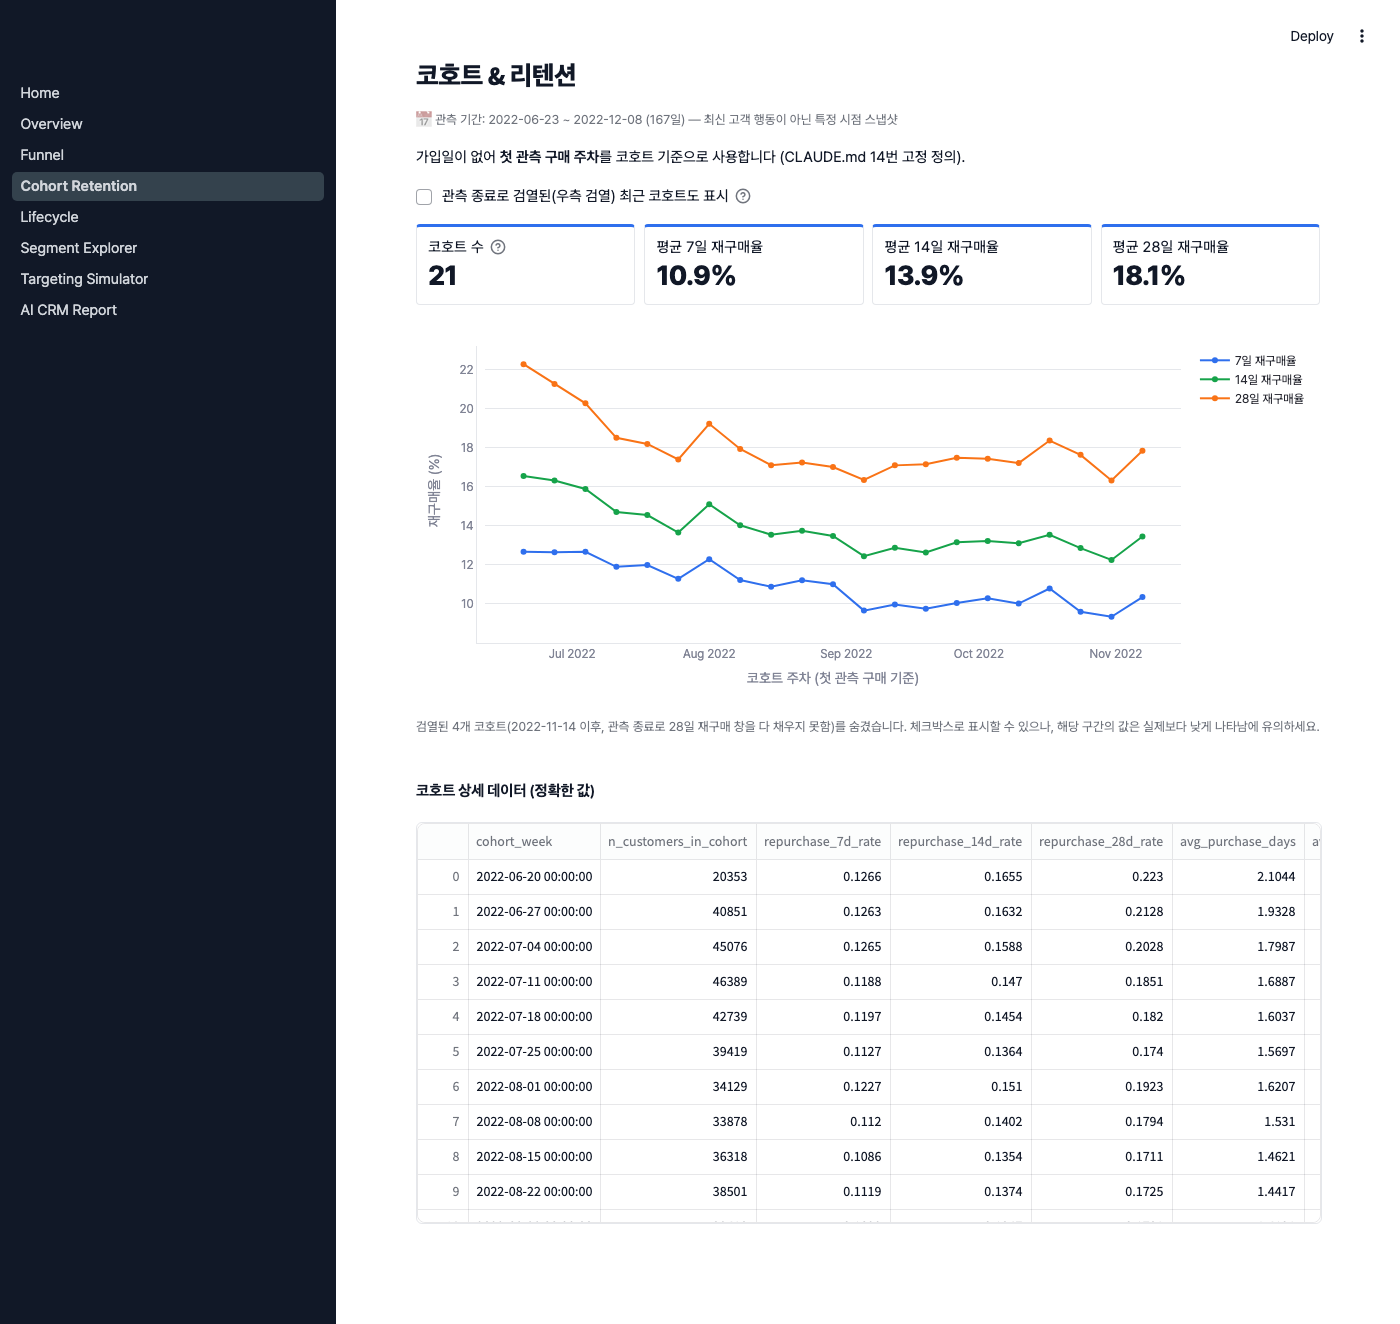
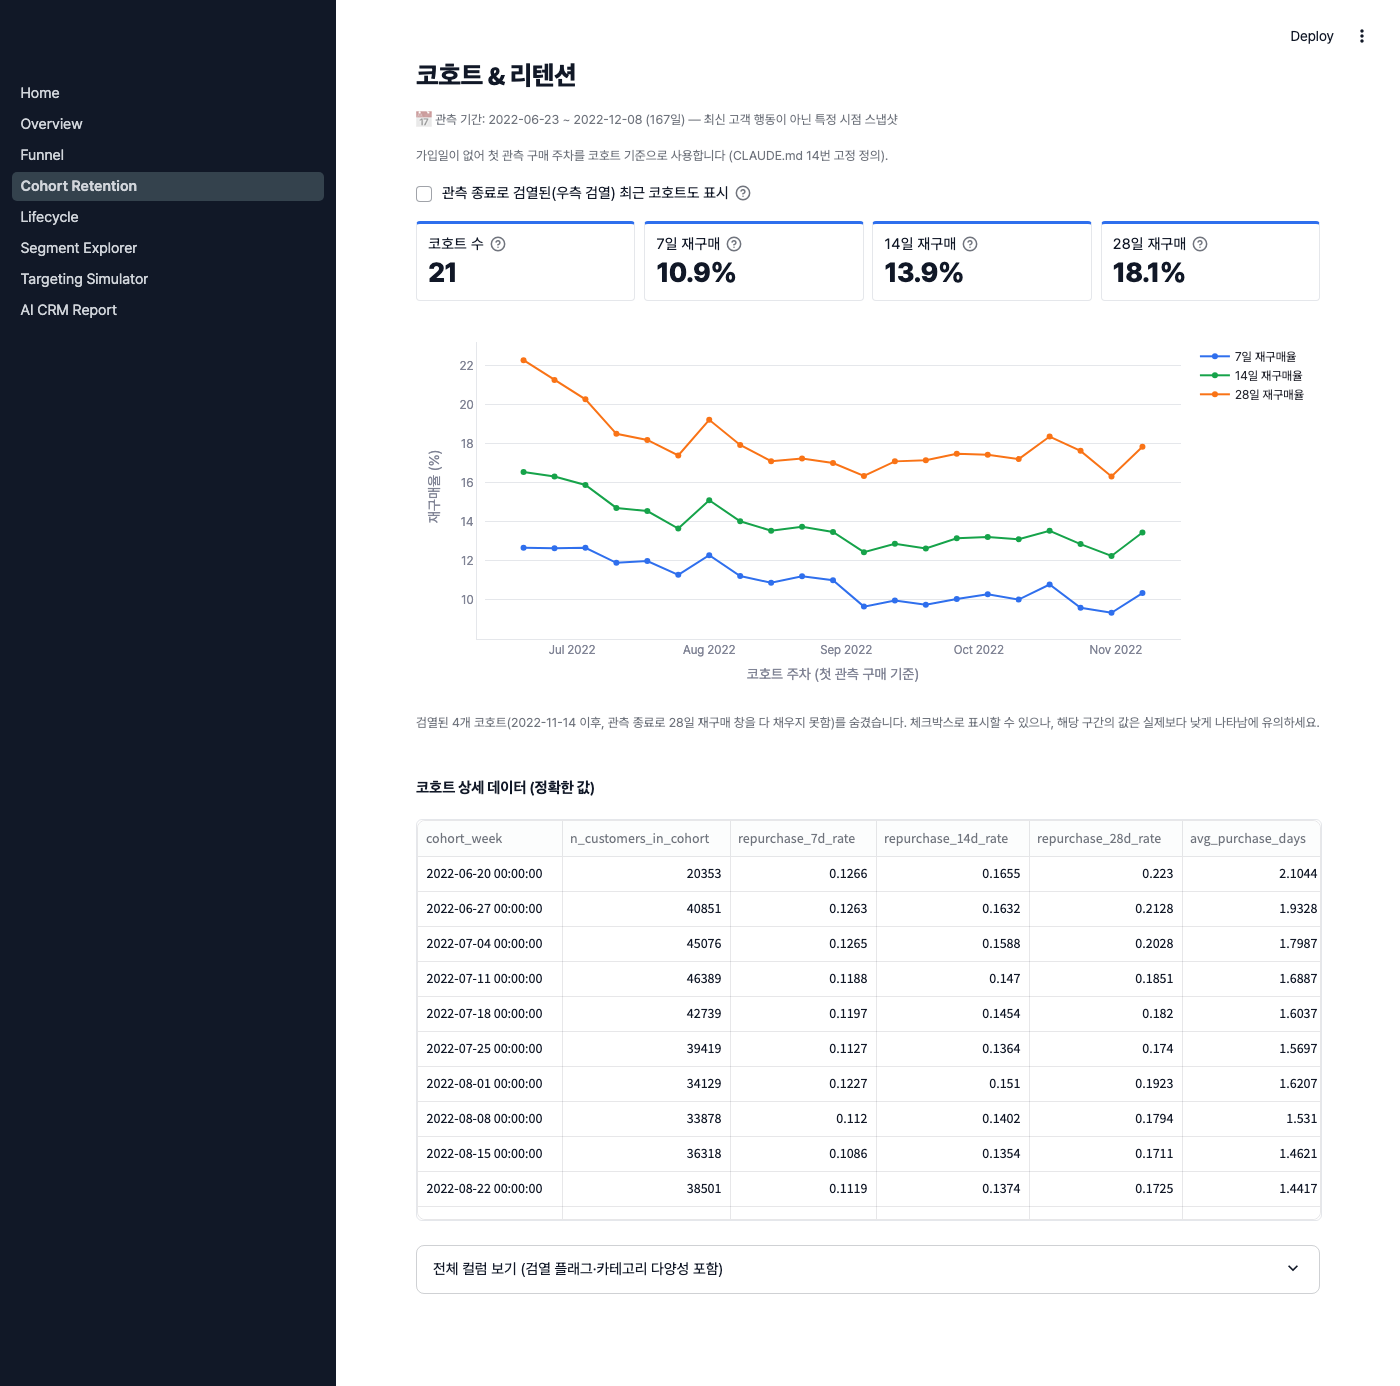
fix(dashboard): resolve text truncation across all pages at 1024px, condense methodology captions

diff --git a/app/pages/2_Funnel.py b/app/pages/2_Funnel.py
@@ -14,39 +14,49 @@ inject_global_css()
 st.title("고객 단위 퍼널")
 show_data_period_notice()
 
-st.markdown(
-    "`page_visit.url`이 상품(sku)과 연결되는 키가 없어 **상품 단위 퍼널은 구조적으로 "
-    "불가능**합니다 (Phase 1 8.9, `docs/methodology.md`). 아래는 고객 단위 탐색→장바구니→구매 퍼널입니다."
+st.caption(
+    "💡 상품 단위 퍼널은 `page_visit.url`-상품(sku) 연결 불가로 구조적으로 불가능해 "
+    "고객 단위 탐색→장바구니→구매 퍼널만 제공합니다 (근거: `docs/methodology.md`)."
 )
 
 funnel = load_funnel_summary()
 
-col_chart, col_table = st.columns([2, 1])
-with col_chart:
-    fig = go.Figure(
-        go.Funnel(
-            y=["탐색", "장바구니 추가", "구매"],
-            x=[funnel["explore"], funnel["cart"], funnel["buy"]],
-            textinfo="value+percent initial+percent previous",
-            marker=dict(color=[BRAND, BRAND, BRAND], opacity=[1, 0.72, 0.5]),
-            connector=dict(fillcolor="#EAF0FE", line=dict(color="#C7D7FB", width=1)),
-        )
-    )
-    themed_layout(fig, height=380)
-    st.plotly_chart(fig, use_container_width=True)
+stage_vals = [funnel["explore"], funnel["cart"], funnel["buy"]]
+pct_initial = [v / stage_vals[0] * 100 for v in stage_vals]
+pct_previous = [100.0, stage_vals[1] / stage_vals[0] * 100, stage_vals[2] / stage_vals[1] * 100]
+funnel_text = [
+    f"{v:,.0f}<br>초기 대비 {pi:.1f}%<br>직전 대비 {pp:.1f}%"
+    for v, pi, pp in zip(stage_vals, pct_initial, pct_previous)
+]
 
-with col_table:
-    st.subheader("정확한 값")
-    stage_df = pd.DataFrame(
-        {"단계": ["탐색", "장바구니 추가", "구매"],
-         "고객 수": [funnel["explore"], funnel["cart"], funnel["buy"]]}
+fig = go.Figure(
+    go.Funnel(
+        y=["탐색", "장바구니 추가", "구매"],
+        x=stage_vals,
+        text=funnel_text,
+        textinfo="text",
+        marker=dict(color=[BRAND, BRAND, BRAND], opacity=[1, 0.72, 0.5]),
+        connector=dict(fillcolor="#EAF0FE", line=dict(color="#C7D7FB", width=1)),
     )
-    stage_df["초기%"] = stage_df["고객 수"] / stage_df["고객 수"].iloc[0] * 100
-    stage_df["직전%"] = [100.0, funnel["cart"] / funnel["explore"] * 100, funnel["buy"] / funnel["cart"] * 100]
-    stage_df.index = [""] * len(stage_df)
-    st.table(
-        stage_df.style.format({"고객 수": "{:,.0f}", "초기%": "{:.1f}%", "직전%": "{:.1f}%"})
-    )
+)
+themed_layout(fig, height=380)
+st.plotly_chart(fig, use_container_width=True)
+
+st.subheader("정확한 값")
+stage_df = pd.DataFrame(
+    {"단계": ["탐색", "장바구니 추가", "구매"], "고객 수": stage_vals,
+     "초기%": pct_initial, "직전%": pct_previous}
+)
+st.dataframe(
+    stage_df.style.format({"고객 수": "{:,.0f}", "초기%": "{:.1f}%", "직전%": "{:.1f}%"}),
+    use_container_width=True, hide_index=True,
+    column_config={
+        "단계": st.column_config.TextColumn(width="small"),
+        "고객 수": st.column_config.TextColumn(width="medium"),
+        "초기%": st.column_config.TextColumn(width="small"),
+        "직전%": st.column_config.TextColumn(width="small"),
+    },
+)
 
 st.subheader("구매자 경로 분해")
 st.markdown(
@@ -59,14 +69,16 @@ explore_cart_buy = funnel["cart_to_buy"]
 no_footprint = funnel["buy_with_no_footprint"]
 
 c1, c2, c3, c4 = st.columns(4)
-metric(c1, "path", "탐색→장바구니→구매", format_count(explore_cart_buy),
+metric(c1, "path", "탐색→구매", format_count(explore_cart_buy),
        sub=f"구매의 {explore_cart_buy/total_buy*100:.1f}%", tone="positive",
-       help=f"정확한 값: {explore_cart_buy:,.0f}")
-metric(c2, "nofootprint", "기록 없이 구매", format_count(no_footprint),
+       help=f"탐색→장바구니→구매 전체 경로 — 정확한 값: {explore_cart_buy:,.0f}")
+metric(c2, "nofootprint", "기록 없음", format_count(no_footprint),
        sub=f"구매의 {no_footprint/total_buy*100:.1f}%", tone="warning",
-       help=f"정확한 값: {no_footprint:,.0f}")
-metric(c3, "e2c", "탐색→장바구니 전환율", f"{funnel['explore_to_cart']/funnel['explore']*100:.2f}%")
-metric(c4, "c2b", "장바구니→구매 전환율", f"{funnel['cart_to_buy']/funnel['cart']*100:.2f}%")
+       help=f"기록 없이 구매 — 정확한 값: {no_footprint:,.0f}")
+metric(c3, "e2c", "탐색전환율", f"{funnel['explore_to_cart']/funnel['explore']*100:.2f}%",
+       help="탐색→장바구니 전환율")
+metric(c4, "c2b", "구매전환율", f"{funnel['cart_to_buy']/funnel['cart']*100:.2f}%",
+       help="장바구니→구매 전환율")
 
 st.caption(
     "'기록 없이 구매' 고객은 탐색·검색·장바구니 이벤트가 전혀 없이 구매만 기록된 경우로, "

diff --git a/app/pages/4_Lifecycle.py b/app/pages/4_Lifecycle.py
@@ -13,12 +13,9 @@ inject_global_css()
 st.title("고객 라이프사이클")
 show_data_period_notice()
 
-st.markdown(
-    """
-관측 종료 시점(2022-12-08) 기준 라이프사이클 상태 분포입니다. 임계값(14/28/60일)은
-구매 간격 중앙값·p90의 배수로 데이터 기반 산출했습니다 — 근거는
-`docs/methodology.md` "라이프사이클 상태 임계값 확정" 항목 참고.
-"""
+st.caption(
+    "관측 종료 시점(2022-12-08) 기준 상태 분포입니다. 임계값(14/28/60일)은 구매 간격 "
+    "중앙값·p90 기반 산출 — 근거: `docs/methodology.md` \"라이프사이클 상태 임계값 확정\"."
 )
 
 df = load_lifecycle_distribution()
@@ -39,34 +36,36 @@ c1, c2, c3, c4 = st.columns(4)
 metric(c1, "explore", "탐색 단계", format_count(group.get("neutral", 0)),
        sub=f"전체의 {group.get('neutral', 0)/df['n'].sum()*100:.1f}%",
        help="탐색_고객 + 장바구니_고객")
-metric(c2, "active", "구매 활성/성장", format_count(group.get("positive", 0)),
+metric(c2, "active", "활성/성장", format_count(group.get("positive", 0)),
        sub=f"전체의 {group.get('positive', 0)/df['n'].sum()*100:.1f}%", tone="positive",
-       help="첫_관측_구매_고객 + 활성_구매_고객 + 복귀_고객")
-metric(c3, "declining", "구매 감소/위험", format_count(group.get("warning", 0)),
+       help="구매 활성/성장 — 첫_관측_구매_고객 + 활성_구매_고객 + 복귀_고객")
+metric(c3, "declining", "감소/위험", format_count(group.get("warning", 0)),
        sub=f"전체의 {group.get('warning', 0)/df['n'].sum()*100:.1f}%", tone="warning",
-       help="구매_비활성_위험_고객 + 구매_감소_고객")
+       help="구매 감소/위험 — 구매_비활성_위험_고객 + 구매_감소_고객")
 metric(c4, "inactive", "비활성", format_count(group.get("danger", 0)),
        sub=f"전체의 {group.get('danger', 0)/df['n'].sum()*100:.1f}%", tone="danger",
        help="비활성_고객")
 
-col1, col2 = st.columns([2, 1])
-with col1:
-    st.subheader("상태별 분포")
-    plot_df = df.sort_values("n", ascending=True)
-    fig = px.bar(
-        plot_df, x="n", y="lifecycle_stage", orientation="h",
-        text=plot_df["pct"].map(lambda p: f"{p:.2f}%"),
-        labels={"n": "고객 수", "lifecycle_stage": "상태"},
-    )
-    fig.update_traces(marker_color=plot_df["tone"].map(TONE_COLOR))
-    themed_layout(fig, height=420)
-    st.plotly_chart(fig, use_container_width=True)
+st.subheader("상태별 분포")
+plot_df = df.sort_values("n", ascending=True)
+fig = px.bar(
+    plot_df, x="n", y="lifecycle_stage", orientation="h",
+    text=plot_df["pct"].map(lambda p: f"{p:.2f}%"),
+    labels={"n": "고객 수", "lifecycle_stage": "상태"},
+)
+fig.update_traces(marker_color=plot_df["tone"].map(TONE_COLOR))
+themed_layout(fig, height=420)
+st.plotly_chart(fig, use_container_width=True)
 
-with col2:
-    st.subheader("정확한 값")
-    st.dataframe(
-        df[["lifecycle_stage", "n", "pct"]], use_container_width=True, hide_index=True,
-    )
+st.subheader("정확한 값")
+st.dataframe(
+    df[["lifecycle_stage", "n", "pct"]], use_container_width=True, hide_index=True,
+    column_config={
+        "lifecycle_stage": st.column_config.TextColumn("상태", width="medium"),
+        "n": st.column_config.TextColumn("고객 수", width="small"),
+        "pct": st.column_config.NumberColumn("비중%", width="small", format="%.2f%%"),
+    },
+)
 
 st.markdown("---")
 st.warning(

diff --git a/app/pages/1_Overview.py b/app/pages/1_Overview.py
@@ -69,14 +69,19 @@ st.caption(
 
 st.markdown("---")
 
-col_funnel, col_table = st.columns([2, 1])
+stage_vals = [funnel["explore"], funnel["cart"], funnel["buy"]]
+pct_initial = [v / stage_vals[0] * 100 for v in stage_vals]
+funnel_text = [f"{v:,.0f}<br>초기 대비 {pi:.1f}%" for v, pi in zip(stage_vals, pct_initial)]
+
+col_funnel, col_lifecycle = st.columns([2, 1])
 with col_funnel:
     st.subheader("핵심 퍼널 (고객 단위)")
     fig = go.Figure(
         go.Funnel(
             y=["탐색", "장바구니 추가", "구매"],
-            x=[funnel["explore"], funnel["cart"], funnel["buy"]],
-            textinfo="value+percent initial",
+            x=stage_vals,
+            text=funnel_text,
+            textinfo="text",
             marker=dict(color=[BRAND, BRAND, BRAND], opacity=[1, 0.72, 0.5]),
             connector=dict(fillcolor="#EAF0FE", line=dict(color="#C7D7FB", width=1)),
         )
@@ -90,25 +95,7 @@ with col_funnel:
         "구조적으로 불가능 — Phase 3 참고)."
     )
 
-with col_table:
-    st.subheader("정확한 값")
-    stage_df = pd.DataFrame(
-        {
-            "단계": ["탐색", "장바구니 추가", "구매"],
-            "고객 수": [funnel["explore"], funnel["cart"], funnel["buy"]],
-        }
-    )
-    stage_df["초기%"] = stage_df["고객 수"] / stage_df["고객 수"].iloc[0] * 100
-    stage_df["직전%"] = [
-        100.0,
-        funnel["cart"] / funnel["explore"] * 100,
-        funnel["buy"] / funnel["cart"] * 100,
-    ]
-    stage_df.index = [""] * len(stage_df)
-    st.table(
-        stage_df.style.format({"고객 수": "{:,.0f}", "초기%": "{:.1f}%", "직전%": "{:.1f}%"})
-    )
-
+with col_lifecycle:
     st.subheader("라이프사이클 스냅샷")
     lc = load_lifecycle_distribution().sort_values("n", ascending=False)
     tone_color = {
@@ -129,3 +116,20 @@ with col_table:
     fig2.update_xaxes(visible=False)
     st.plotly_chart(fig2, use_container_width=True)
     st.caption("자세한 정의·근거는 Lifecycle 페이지 참고.")
+
+st.subheader("정확한 값")
+stage_df = pd.DataFrame(
+    {"단계": ["탐색", "장바구니 추가", "구매"], "고객 수": stage_vals,
+     "초기%": pct_initial,
+     "직전%": [100.0, funnel["cart"] / funnel["explore"] * 100, funnel["buy"] / funnel["cart"] * 100]}
+)
+st.dataframe(
+    stage_df.style.format({"고객 수": "{:,.0f}", "초기%": "{:.1f}%", "직전%": "{:.1f}%"}),
+    use_container_width=True, hide_index=True,
+    column_config={
+        "단계": st.column_config.TextColumn(width="small"),
+        "고객 수": st.column_config.TextColumn(width="medium"),
+        "초기%": st.column_config.TextColumn(width="small"),
+        "직전%": st.column_config.TextColumn(width="small"),
+    },
+)

diff --git a/app/pages/3_Cohort_Retention.py b/app/pages/3_Cohort_Retention.py
@@ -13,10 +13,7 @@ inject_global_css()
 st.title("코호트 & 리텐션")
 show_data_period_notice()
 
-st.markdown(
-    "가입일이 없어 **첫 관측 구매 주차**를 코호트 기준으로 사용합니다 "
-    "(CLAUDE.md 14번 고정 정의)."
-)
+st.caption("가입일이 없어 첫 관측 구매 주차를 코호트 기준으로 사용합니다 (CLAUDE.md 14번 고정 정의).")
 
 df = load_cohort_retention()
 
@@ -31,9 +28,9 @@ plot_df = df if show_censored else df[~df["is_28d_window_censored"]]
 
 c1, c2, c3, c4 = st.columns(4)
 metric(c1, "ncohort", "코호트 수", f"{len(plot_df)}", help="첫 관측 구매 주차 기준")
-metric(c2, "r7", "평균 7일 재구매율", f"{plot_df['repurchase_7d_rate'].mean()*100:.1f}%")
-metric(c3, "r14", "평균 14일 재구매율", f"{plot_df['repurchase_14d_rate'].mean()*100:.1f}%")
-metric(c4, "r28", "평균 28일 재구매율", f"{plot_df['repurchase_28d_rate'].mean()*100:.1f}%")
+metric(c2, "r7", "7일 재구매", f"{plot_df['repurchase_7d_rate'].mean()*100:.1f}%", help="코호트 평균 7일 재구매율")
+metric(c3, "r14", "14일 재구매", f"{plot_df['repurchase_14d_rate'].mean()*100:.1f}%", help="코호트 평균 14일 재구매율")
+metric(c4, "r28", "28일 재구매", f"{plot_df['repurchase_28d_rate'].mean()*100:.1f}%", help="코호트 평균 28일 재구매율")
 
 fig = go.Figure()
 for col, name in [("repurchase_7d_rate", "7일"), ("repurchase_14d_rate", "14일"), ("repurchase_28d_rate", "28일")]:
@@ -50,9 +47,13 @@ if not show_censored:
     )
 
 st.subheader("코호트 상세 데이터 (정확한 값)")
-st.dataframe(
-    df[["cohort_week", "n_customers_in_cohort", "repurchase_7d_rate", "repurchase_14d_rate",
-        "repurchase_28d_rate", "avg_purchase_days", "avg_category_diversity",
-        "is_7d_window_censored", "is_14d_window_censored", "is_28d_window_censored"]],
-    use_container_width=True,
-)
+core_cols = ["cohort_week", "n_customers_in_cohort", "repurchase_7d_rate",
+             "repurchase_14d_rate", "repurchase_28d_rate", "avg_purchase_days"]
+st.dataframe(df[core_cols], use_container_width=True, hide_index=True)
+
+with st.expander("전체 컬럼 보기 (검열 플래그·카테고리 다양성 포함)"):
+    st.dataframe(
+        df[core_cols + ["avg_category_diversity", "is_7d_window_censored",
+                         "is_14d_window_censored", "is_28d_window_censored"]],
+        use_container_width=True, hide_index=True,
+    )

diff --git a/app/pages/7_AI_CRM_Report.py b/app/pages/7_AI_CRM_Report.py
@@ -42,10 +42,15 @@ def _tone_for_fact(label: str) -> str:
 
 
 st.subheader("1. Data Facts (SQL에서 확인된 사실)")
-cols = st.columns(len(output.data_facts))
-for i, (col, fact) in enumerate(zip(cols, output.data_facts)):
-    metric(col, f"fact{i}", fact.label, f"{format_count(fact.value)}{fact.unit}",
-           tone=_tone_for_fact(fact.label), help=with_exact_help(fact.value))
+# 4열 한 줄 배치는 좁은 화면(~1024px)에서 라벨·값이 잘려 2열씩 묶어 배치한다
+# (Overview 페이지와 동일한 근거).
+facts = output.data_facts
+for row_start in range(0, len(facts), 2):
+    row_facts = facts[row_start:row_start + 2]
+    row_cols = st.columns(2)
+    for i, (col, fact) in enumerate(zip(row_cols, row_facts)):
+        metric(col, f"fact{row_start+i}", fact.label, f"{format_count(fact.value)}{fact.unit}",
+               tone=_tone_for_fact(fact.label), help=with_exact_help(fact.value))
 
 st.subheader("2. Model Predictions (모델 예측 결과)")
 for m in output.model_predictions:

diff --git a/src/llm/data_loader.py b/src/llm/data_loader.py
@@ -23,9 +23,9 @@ def build_report_input(contact_rate_pct: int = 10) -> CRMReportInput:
     kpi = dict(zip(kpi_df["metric"], kpi_df["value"]))
 
     data_facts = [
-        DataFact(label="전체 관측 고객", value=kpi["total_customers"], unit="명"),
+        DataFact(label="전체 고객", value=kpi["total_customers"], unit="명"),
         DataFact(label="구매 고객", value=kpi["buyers"], unit="명"),
-        DataFact(label="구매 비활성 위험 고객", value=kpi["at_risk_customers"], unit="명"),
+        DataFact(label="비활성 위험 고객", value=kpi["at_risk_customers"], unit="명"),
         DataFact(label="비활성 고객", value=kpi["inactive_customers"], unit="명"),
     ]
 

diff --git a/app/pages/5_Segment_Explorer.py b/app/pages/5_Segment_Explorer.py
@@ -13,7 +13,7 @@ inject_global_css()
 st.title("Segment Explorer")
 show_data_period_notice()
 
-st.markdown(
+st.caption(
     "규칙 기반 세그먼트 9개입니다 (CLAUDE.md 17번 — 군집분석은 사용하지 않음, "
     "`docs/data_dictionary.md` mart_customer_segment 참고)."
 )
